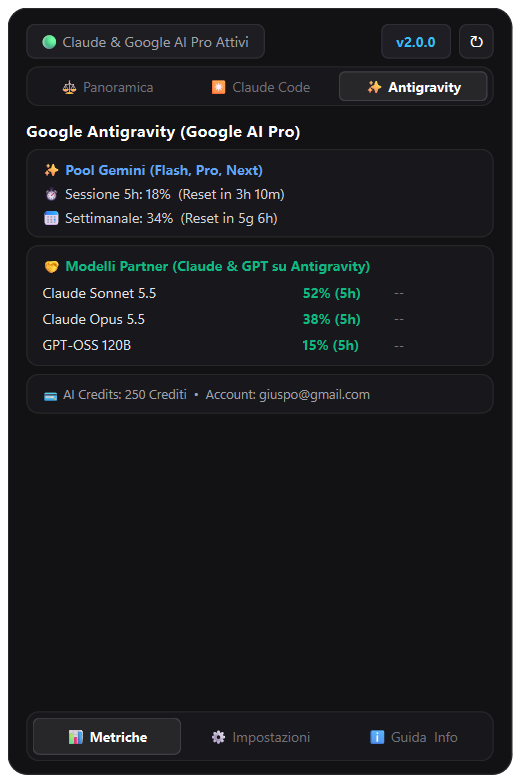
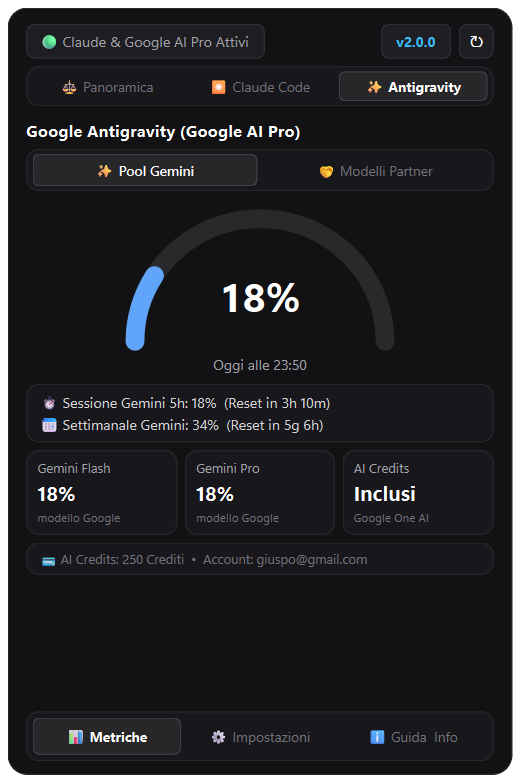
fix(ui): harmonize Antigravity tab with radial gauge and resolve Settings layout collision

diff --git a/src/claude_usage/ui/flyout.py b/src/claude_usage/ui/flyout.py
@@ -89,6 +89,8 @@ class SemiCircleGauge(QWidget):
         else:
             if self.color_theme == "blue":
                 color = QColor(96, 165, 250)  # Google Azure
+            elif self.color_theme == "emerald":
+                color = QColor(16, 185, 129)  # Partner Emerald
             else:
                 color = QColor(56, 189, 248)  # Electric Cyan
 
@@ -565,64 +567,86 @@ class MicroFlyoutWindow(QWidget):
         vbox.setContentsMargins(0, 4, 0, 0)
         vbox.setSpacing(6)
 
-        # Workspace title
+        # 1. Workspace / Plan title
         self.lbl_agy_title = QLabel("Google Antigravity (Google AI Pro)", self.subview_antigravity)
         self.lbl_agy_title.setStyleSheet("font-size: 13px; font-weight: 700; color: #FFFFFF;")
         vbox.addWidget(self.lbl_agy_title)
 
-        # Card 1: Gemini Pool
-        card_gem = QFrame(self.subview_antigravity)
-        card_gem.setObjectName("SectionCard")
-        gem_layout = QVBoxLayout(card_gem)
-        gem_layout.setContentsMargins(12, 8, 12, 8)
-        gem_layout.setSpacing(4)
+        # 2. Window / Pool selector tabs
+        tab_container = QFrame(self.subview_antigravity)
+        tab_container.setObjectName("SectionCard")
+        tab_layout = QHBoxLayout(tab_container)
+        tab_layout.setContentsMargins(4, 3, 4, 3)
+        tab_layout.setSpacing(4)
 
-        lbl_gem_title = QLabel("✨ Pool Gemini (Flash, Pro, Next)", card_gem)
-        lbl_gem_title.setStyleSheet("font-size: 11px; font-weight: 700; color: #60A5FA;")
-        gem_layout.addWidget(lbl_gem_title)
+        self.btn_agy_gemini = QPushButton("✨ Pool Gemini", tab_container)
+        self.btn_agy_partner = QPushButton("🤝 Modelli Partner", tab_container)
+        for b in (self.btn_agy_gemini, self.btn_agy_partner):
+            b.setFixedHeight(26)
+            b.setCursor(Qt.CursorShape.PointingHandCursor)
 
-        self.lbl_gem_5h = QLabel("⏱ Sessione 5h: 0%  (Reset in --)", card_gem)
-        self.lbl_gem_5h.setStyleSheet("color: #D4D4D8; font-size: 11px;")
-        gem_layout.addWidget(self.lbl_gem_5h)
+        self._active_agy_tab = "gemini"
+        self.btn_agy_gemini.clicked.connect(lambda: self._select_antigravity_tab("gemini"))
+        self.btn_agy_partner.clicked.connect(lambda: self._select_antigravity_tab("partner"))
+        tab_layout.addWidget(self.btn_agy_gemini)
+        tab_layout.addWidget(self.btn_agy_partner)
+        vbox.addWidget(tab_container)
 
-        self.lbl_gem_7d = QLabel("📅 Settimanale: 0%  (Reset in --)", card_gem)
-        self.lbl_gem_7d.setStyleSheet("color: #D4D4D8; font-size: 11px;")
-        gem_layout.addWidget(self.lbl_gem_7d)
-        vbox.addWidget(card_gem)
+        # 3. Radial Gauge container (Identical to Claude Code radial gauge)
+        gauge_container = QWidget(self.subview_antigravity)
+        gauge_layout = QVBoxLayout(gauge_container)
+        gauge_layout.setContentsMargins(0, 2, 0, 2)
+        gauge_layout.setSpacing(1)
 
-        # Card 2: Partner Models Breakdown (All models)
-        self.card_partner_models = QFrame(self.subview_antigravity)
-        self.card_partner_models.setObjectName("SectionCard")
-        self.layout_partner_models = QVBoxLayout(self.card_partner_models)
-        self.layout_partner_models.setContentsMargins(12, 8, 12, 8)
-        self.layout_partner_models.setSpacing(5)
+        self.antigravity_gauge = SemiCircleGauge(color_theme="blue", parent=gauge_container)
+        gauge_layout.addWidget(self.antigravity_gauge, alignment=Qt.AlignmentFlag.AlignCenter)
 
-        lbl_prt_title = QLabel("🤝 Modelli Partner (Claude & GPT su Antigravity)", self.card_partner_models)
-        lbl_prt_title.setStyleSheet("font-size: 11px; font-weight: 700; color: #10B981;")
-        self.layout_partner_models.addWidget(lbl_prt_title)
+        self.lbl_agy_reset_timer = QLabel("Reset in --", gauge_container)
+        self.lbl_agy_reset_timer.setAlignment(Qt.AlignmentFlag.AlignCenter)
+        self.lbl_agy_reset_timer.setStyleSheet("font-size: 11px; color: #A1A1AA;")
+        gauge_layout.addWidget(self.lbl_agy_reset_timer)
+        vbox.addWidget(gauge_container)
 
-        # Dynamic container for partner model rows
-        self.partner_rows_widget = QWidget(self.card_partner_models)
-        self.partner_rows_layout = QVBoxLayout(self.partner_rows_widget)
-        self.partner_rows_layout.setContentsMargins(0, 0, 0, 0)
-        self.partner_rows_layout.setSpacing(4)
-        self.layout_partner_models.addWidget(self.partner_rows_widget)
-        vbox.addWidget(self.card_partner_models)
+        # 4. Dual row overview card
+        self.agy_dual_card = QFrame(self.subview_antigravity)
+        self.agy_dual_card.setObjectName("SectionCard")
+        dual_layout = QVBoxLayout(self.agy_dual_card)
+        dual_layout.setContentsMargins(10, 6, 10, 6)
+        dual_layout.setSpacing(3)
 
-        # Card 3: Google Account & Credits
-        card_credits = QFrame(self.subview_antigravity)
-        card_credits.setObjectName("SectionCard")
-        cred_layout = QHBoxLayout(card_credits)
-        cred_layout.setContentsMargins(12, 8, 12, 8)
-        cred_layout.setSpacing(8)
+        self.lbl_agy_row_5h = QLabel("⏱ Sessione 5h: 0%", self.agy_dual_card)
+        self.lbl_agy_row_5h.setStyleSheet("color: #D4D4D8; font-size: 11px;")
+        dual_layout.addWidget(self.lbl_agy_row_5h)
 
-        self.lbl_credits_info = QLabel("💳 AI Credits: Disponibili  •  Account: giuliosporti@gmail.com", card_credits)
-        self.lbl_credits_info.setStyleSheet("color: #A1A1AA; font-size: 10px;")
+        self.lbl_agy_row_7d = QLabel("📅 Settimanale: 0%", self.agy_dual_card)
+        self.lbl_agy_row_7d.setStyleSheet("color: #D4D4D8; font-size: 11px;")
+        dual_layout.addWidget(self.lbl_agy_row_7d)
+        vbox.addWidget(self.agy_dual_card)
+
+        # 5. Bottom 3 Metric Cards Grid
+        cards_layout = QHBoxLayout()
+        cards_layout.setSpacing(6)
+        self.card_agy_c1 = self._create_metric_card("Gemini Flash", "0%", "modello")
+        self.card_agy_c2 = self._create_metric_card("Gemini Pro", "0%", "modello")
+        self.card_agy_c3 = self._create_metric_card("AI Credits", "Inclusi", "Google One")
+        cards_layout.addWidget(self.card_agy_c1)
+        cards_layout.addWidget(self.card_agy_c2)
+        cards_layout.addWidget(self.card_agy_c3)
+        vbox.addLayout(cards_layout)
+
+        # 6. Bottom info row (Credits & Account)
+        self.card_agy_footer = QFrame(self.subview_antigravity)
+        self.card_agy_footer.setObjectName("SectionCard")
+        cred_layout = QHBoxLayout(self.card_agy_footer)
+        cred_layout.setContentsMargins(10, 5, 10, 5)
+        self.lbl_credits_info = QLabel("💳 AI Credits: Disponibili  •  Account: Google Account", self.card_agy_footer)
+        self.lbl_credits_info.setStyleSheet("color: #71717A; font-size: 10px;")
         cred_layout.addWidget(self.lbl_credits_info)
-        vbox.addWidget(card_credits)
+        vbox.addWidget(self.card_agy_footer)
 
         vbox.addStretch()
         self.sub_stacked_layout.addWidget(self.subview_antigravity)
+        self._select_antigravity_tab("gemini")
 
     def _select_metrics_subview(self, view_id: str) -> None:
         self._active_metrics_subview = view_id
@@ -650,6 +674,23 @@ class MicroFlyoutWindow(QWidget):
 
         if self._last_composite:
             self._update_claude_subview(self._last_composite.claude)
+
+    def _select_antigravity_tab(self, tab: str) -> None:
+        self._active_agy_tab = tab
+        active_css = "QPushButton { background-color: #27272A; color: #FFFFFF; border-radius: 5px; font-weight: 600; font-size: 11px; border: 1px solid #3F3F46; }"
+        inactive_css = "QPushButton { background-color: transparent; color: #71717A; border-radius: 5px; font-weight: 500; font-size: 11px; border: none; } QPushButton:hover { color: #D4D4D8; }"
+
+        if tab == "partner":
+            self.btn_agy_partner.setStyleSheet(active_css)
+            self.btn_agy_gemini.setStyleSheet(inactive_css)
+            self.antigravity_gauge.color_theme = "emerald"
+        else:
+            self.btn_agy_gemini.setStyleSheet(active_css)
+            self.btn_agy_partner.setStyleSheet(inactive_css)
+            self.antigravity_gauge.color_theme = "blue"
+
+        if self._last_composite and self._last_composite.antigravity:
+            self._update_antigravity_subview(self._last_composite.antigravity)
 
     # =========================================================================
     # PAGE 1: SETTINGS VIEW (Multi-Provider Configuration, Zero Clipping)
@@ -1225,47 +1266,75 @@ class MicroFlyoutWindow(QWidget):
             val_think.setText(format_number(snap.tokens.thinking_tokens))
 
     def _update_antigravity_subview(self, ag: AntigravityUsageSnapshot) -> None:
-        self.lbl_gem_5h.setText(f"⏱ Sessione 5h: {int(round(ag.gemini_5h.utilization_pct))}%  (Reset in {ag.gemini_5h.time_remaining_str})")
-        self.lbl_gem_7d.setText(f"📅 Settimanale: {int(round(ag.gemini_7d.utilization_pct))}%  (Reset in {ag.gemini_7d.time_remaining_str})")
+        tab = getattr(self, "_active_agy_tab", "gemini")
 
-        # Repopulate partner models rows dynamically
-        while self.partner_rows_layout.count():
-            item = self.partner_rows_layout.takeAt(0)
-            w = item.widget()
-            if w:
-                w.deleteLater()
-
-        if ag.partner_models:
-            for m in ag.partner_models:
-                row = QFrame(self.partner_rows_widget)
-                r_layout = QHBoxLayout(row)
-                r_layout.setContentsMargins(0, 1, 0, 1)
-                r_layout.setSpacing(6)
-
-                lbl_name = QLabel(m.display_name, row)
-                lbl_name.setStyleSheet("color: #E4E4E7; font-size: 11px; font-weight: 500;")
-                r_layout.addWidget(lbl_name, stretch=3)
-
-                pct_int = int(round(m.five_hour.utilization_pct))
-                lbl_val = QLabel(f"{pct_int}% (5h)", row)
-                col_hex = "#EF4444" if pct_int >= 90 else ("#F59E0B" if pct_int >= 75 else "#10B981")
-                lbl_val.setStyleSheet(f"color: {col_hex}; font-weight: 700; font-size: 11px;")
-                r_layout.addWidget(lbl_val, stretch=1)
-
-                lbl_time = QLabel(m.five_hour.time_remaining_str, row)
-                lbl_time.setStyleSheet("color: #71717A; font-size: 10px;")
-                r_layout.addWidget(lbl_time, stretch=1)
-
-                self.partner_rows_layout.addWidget(row)
-        else:
-            lbl_none = QLabel("Nessun limite attivo per i modelli Partner", self.partner_rows_widget)
-            lbl_none.setStyleSheet("color: #71717A; font-size: 10px; font-style: italic;")
-            self.partner_rows_layout.addWidget(lbl_none)
-
-        # Credits & Email info
         email_str = ag.account_email or "Google Account"
         credits_str = f"{ag.ai_credits_balance} Crediti" if ag.ai_credits_balance is not None else "Disponibili"
         self.lbl_credits_info.setText(f"💳 AI Credits: {credits_str}  •  Account: {email_str}")
+
+        if tab == "partner":
+            self.antigravity_gauge.color_theme = "emerald"
+            pct = ag.partner_5h.utilization_pct
+            self.antigravity_gauge.set_percentage(pct)
+            self.lbl_agy_reset_timer.setText(ag.partner_5h.friendly_reset_str)
+
+            self.lbl_agy_row_5h.setText(
+                f"⏱ Sessione Partner 5h: {int(round(ag.partner_5h.utilization_pct))}%  (Reset in {ag.partner_5h.time_remaining_str})"
+            )
+            self.lbl_agy_row_7d.setText(
+                f"📅 Settimanale Partner: {int(round(ag.partner_7d.utilization_pct))}%  (Reset in {ag.partner_7d.time_remaining_str})"
+            )
+
+            p_models = ag.partner_models or []
+            m1 = next((m for m in p_models if "sonnet" in m.model_id.lower()), p_models[0] if len(p_models) > 0 else None)
+            m2 = next((m for m in p_models if "opus" in m.model_id.lower()), p_models[1] if len(p_models) > 1 else None)
+            m3 = next((m for m in p_models if "gpt" in m.model_id.lower()), p_models[2] if len(p_models) > 2 else None)
+
+            self._set_metric_card(
+                self.card_agy_c1,
+                m1.display_name if m1 else "Claude Sonnet",
+                f"{int(round(m1.five_hour.utilization_pct))}%" if m1 else "0%",
+                "quota 5h",
+            )
+            self._set_metric_card(
+                self.card_agy_c2,
+                m2.display_name if m2 else "Claude Opus",
+                f"{int(round(m2.five_hour.utilization_pct))}%" if m2 else "0%",
+                "quota 5h",
+            )
+            self._set_metric_card(
+                self.card_agy_c3,
+                m3.display_name if m3 else "GPT-OSS",
+                f"{int(round(m3.five_hour.utilization_pct))}%" if m3 else "0%",
+                "quota 5h",
+            )
+        else:
+            self.antigravity_gauge.color_theme = "blue"
+            pct = ag.gemini_5h.utilization_pct
+            self.antigravity_gauge.set_percentage(pct)
+            self.lbl_agy_reset_timer.setText(ag.gemini_5h.friendly_reset_str)
+
+            self.lbl_agy_row_5h.setText(
+                f"⏱ Sessione Gemini 5h: {int(round(ag.gemini_5h.utilization_pct))}%  (Reset in {ag.gemini_5h.time_remaining_str})"
+            )
+            self.lbl_agy_row_7d.setText(
+                f"📅 Settimanale Gemini: {int(round(ag.gemini_7d.utilization_pct))}%  (Reset in {ag.gemini_7d.time_remaining_str})"
+            )
+
+            self._set_metric_card(self.card_agy_c1, "Gemini Flash", f"{int(round(ag.gemini_5h.utilization_pct))}%", "modello Google")
+            self._set_metric_card(self.card_agy_c2, "Gemini Pro", f"{int(round(ag.gemini_5h.utilization_pct))}%", "modello Google")
+            self._set_metric_card(self.card_agy_c3, "AI Credits", "Inclusi", "Google One AI")
+
+    def _set_metric_card(self, card: QFrame, title: str, val: str, sub: str) -> None:
+        lbl_title = card.findChild(QLabel, "title")
+        lbl_val = card.findChild(QLabel, "val")
+        lbl_sub = card.findChild(QLabel, "sub")
+        if lbl_title:
+            lbl_title.setText(title)
+        if lbl_val:
+            lbl_val.setText(val)
+        if lbl_sub:
+            lbl_sub.setText(sub)
 
     def _create_metric_card(self, title: str, val: str, sub: str) -> QFrame:
         card = QFrame()
@@ -1276,6 +1345,7 @@ class MicroFlyoutWindow(QWidget):
         card_layout.setSpacing(1)
 
         lbl_t = QLabel(title, card)
+        lbl_t.setObjectName("title")
         lbl_t.setStyleSheet("font-size: 10px; color: #A1A1AA; font-weight: 500;")
         card_layout.addWidget(lbl_t)
 
